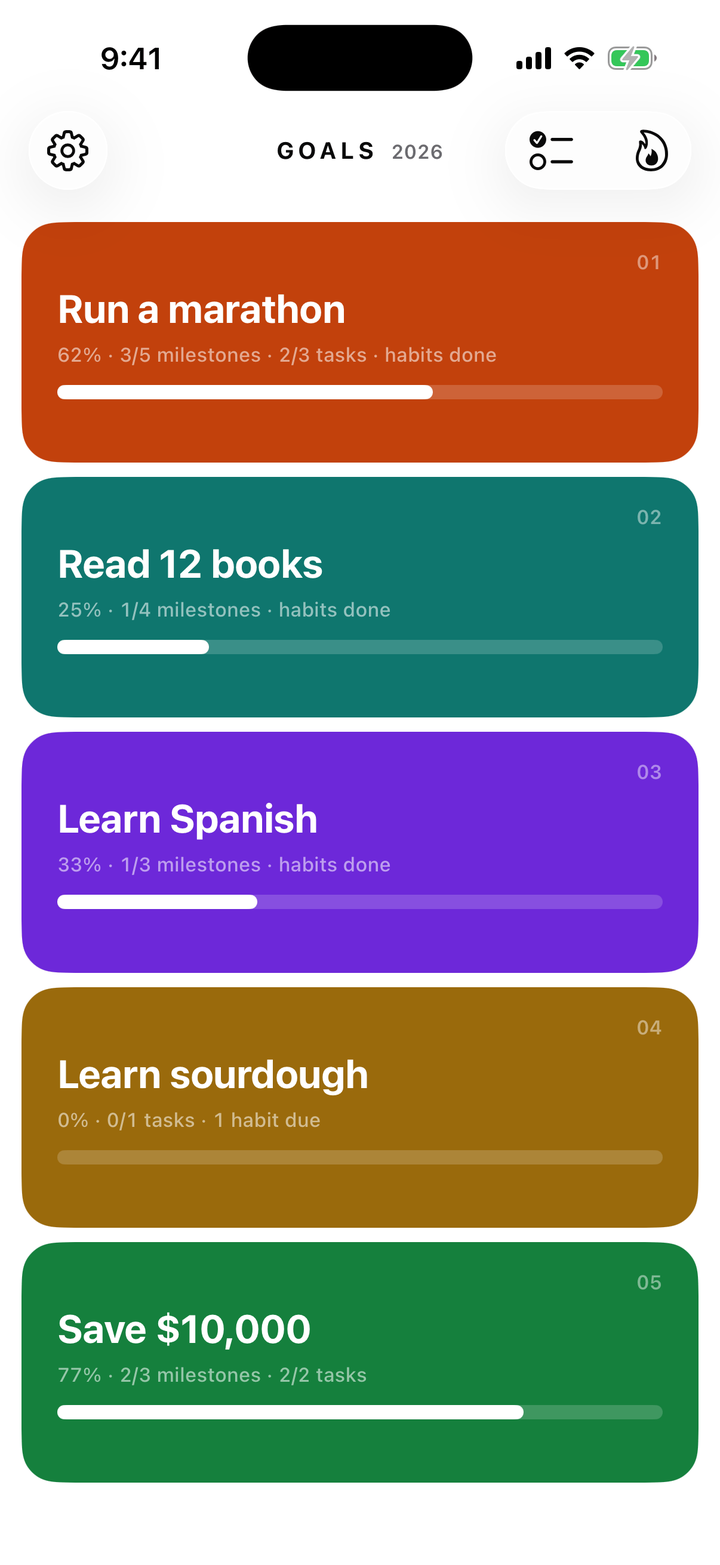
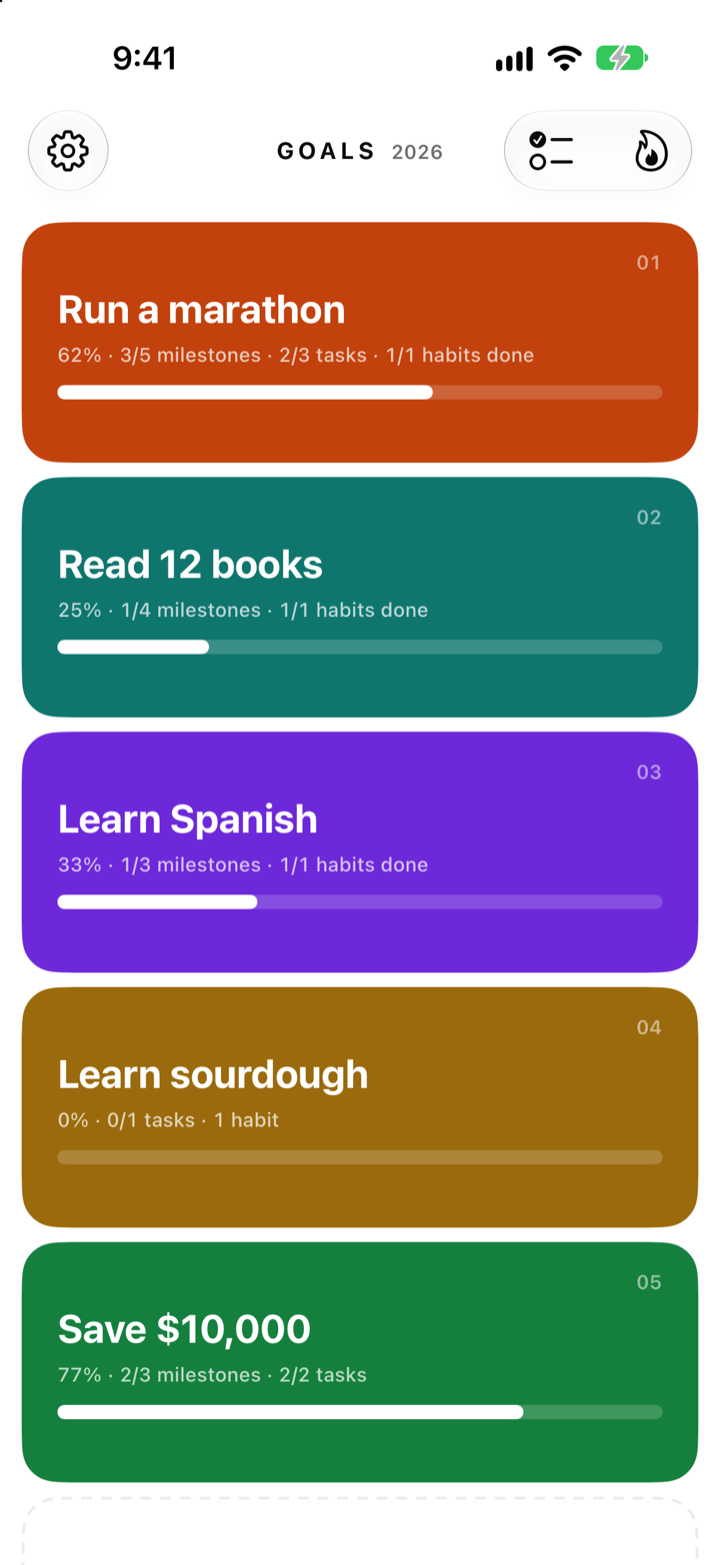
Describe Goals with no cap on goals, and redraw its cover from today's app
Goals dropped its five slots in TestFlight build 145, and the card still sold
"five slots for the year. Not six." It now says what the app is: a goal
tracker for the year on four devices, each goal holding its milestones, tasks
and habits, one goal free, nothing to sign up for and nothing collected.

The cover is redrawn the same way as before, in the same iPhone on the same
#4A42A9, from the landing page's fresh capture of Home
(apps/goals-web/src/shots/home-light.png, scaled to 720 wide). The old one
was captured before the cap went and before Home's captions changed.
PROJECTS.md points at the new source, since the landing page's
public/images/home-light.png no longer exists.

The entry's shot.css is gone: it framed a figure the redesigned landing page
no longer has, and the cover does not come from capture-cover.mjs anyway.

This deploys with goals-web build-6, the landing page rebuilt around
unlimited goals.

diff --git a/docs/PROJECTS.md b/docs/PROJECTS.md
@@ -100,7 +100,8 @@ The rules, as Jake set them:
   it first, never scaled: cut from the bottom (`sips --cropToHeightWidth H W --cropOffset 0 0`)
   or padded with the app's own background colour (`sips --padToHeightWidth`).
 - **An iOS app goes in an iPhone** (`model=iphone-18-pro`). Only Goals is one. Its screen is
-  the landing page's own native screenshot, `apps/goals-web/public/images/home-light.png`.
+  the landing page's own native capture, `apps/goals-web/src/shots/home-light.png`, scaled to
+  720 wide (`sips --resampleWidth 720`).
 
 Three files make a cover, and all three are committed:
 
